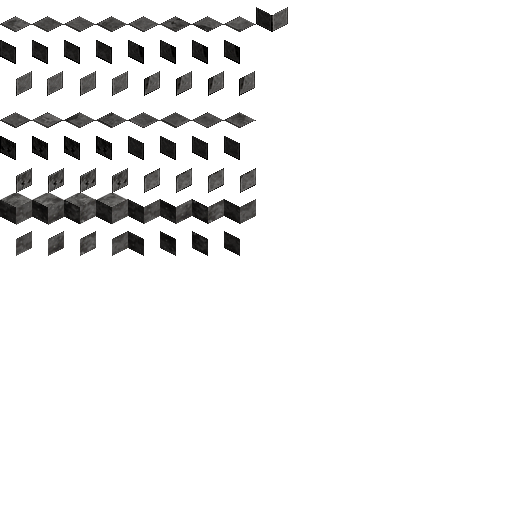
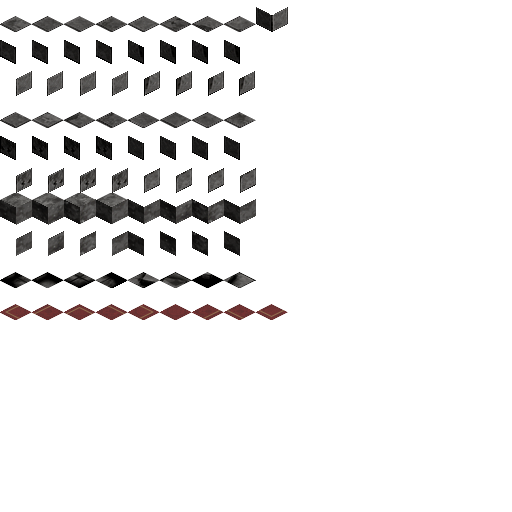
맵 데이터 변경 업데이트

Changed region(s): [[0.0, 0.5938, 0.5625, 0.625], [0.0, 0.5312, 0.5, 0.5625]]

diff --git a/js/isoengine/engine.js b/js/isoengine/engine.js
@@ -60,10 +60,12 @@ const TILE_WIDTH  = 32;
 const TILE_HEIGHT = 16;
 
 class Tile extends PIXI.Container {
-    constructor(x, y) {
+    constructor(x, y, options) {
         super();
         this.gridX = x;
         this.gridY = y;
+        this.setTexture(PIXI.Texture.fromFrame(options.textureName));
+        this.movable = options.movable || false;
     }
 
     setTexture(texture) {
@@ -201,16 +203,18 @@ class IsoMap extends PIXI.Container {
         }
     }
 
-    addTile(id, textureName) {
-        this.tiles[id] =  textureName;
+    addTile(id, textureName, options) {
+        options = options || {};
+        options.textureName = textureName;
+        this.tiles[id] = options;
+            
     }
 
     setGroundTile(x, y, tileId) {
         if (tileId > 0) {
-            const gtile = new Tile(x, y);
+            const gtile = new Tile(x, y, this.getTileData(tileId));
             gtile.position.x = this.getTilePosXFor(x, y) - this.TILE_HALF_W;
             gtile.position.y = this.getTilePosYFor(x ,y) + this.TILE_HALF_H;
-            gtile.setTexture(this.getTileTexture(tileId));
 
             this.groundMap[x + y * this.mapWidth] = gtile;
         }
@@ -218,10 +222,9 @@ class IsoMap extends PIXI.Container {
 
     setObjectTile(x, y, tileId) {
         if (tileId > 0) {
-            const otile = new Tile(x, y);
+            const otile = new Tile(x, y, this.getTileData(tileId));
             otile.position.x = this.getTilePosXFor(x, y) - this.TILE_HALF_W;
             otile.position.y = this.getTilePosYFor(x ,y) + this.TILE_HALF_H;
-            otile.setTexture(this.getTileTexture(tileId));
             this.objectMap[x + y * this.mapWidth] = otile;
         }
     }
@@ -242,13 +245,8 @@ class IsoMap extends PIXI.Container {
         return this.objectMap[x + y*this.mapWidth];
     }
 
-    getTileTexture(tileid) {
-        const src = this.tiles[tileid];
-        if (src) {
-            return PIXI.Texture.fromFrame(src);
-        } else {
-            return null;
-        }
+    getTileData(tileid) {
+        return this.tiles[tileid];
     }
 
     build() {
@@ -333,6 +331,7 @@ class IsoMap extends PIXI.Container {
     }
 
     moveCharacter(character, x, y) {
+        
         // 길을 찾는다
         if (character.isMoving) {
             // 다음 위치에서부터 시작을 한다
@@ -340,12 +339,21 @@ class IsoMap extends PIXI.Container {
             const startY = character.currentTargetTile ? character.currentTargetTile.y : character.gridY;
 
             const path  = this.pathFinder.solve(startX, startY, x, y);
-            character.newPath = path;
+            if (path) {
+                character.newPath = path;
+            }
         } else {
             const path  = this.pathFinder.solve(character.gridX, character.gridY, x, y);
             if (path) {
                 this.moveObjThrough(character, path);
             }
+        }
+    }
+
+    checkInteractionTarget(x, y) {
+        const target = this.getObjectAt(x, y);
+        if (target.isInteractive) {
+            this.interactTarget = target;
         }
     }
 
@@ -399,18 +407,19 @@ class IsoMap extends PIXI.Container {
         this.moveEngine.removeMovable(obj);
         
         if (!pathEnded) {
-            //console.log(JSON.stringify(obj.currentPath))
-            //obj.currentPath.splice(obj.currentPath.length-1, 1);
-            //console.log(JSON.stringify(obj.currentPath))
             this.moveObjThrough(obj, obj.currentPath.slice(0, obj.currentPath.length-1));
         }
         else {
             // reached to the end of the path
             obj.isMoving = false;
             obj.changeVisualToDirection(obj.currentDirection);
-        }
 
-        const isControlCharacter = true;
+            // 인터랙션 타겟이 있었나?
+            if (this.interactTarget) {
+                // 캐릭터가 해당 물체를 클릭하였다
+                this.interactTarget.touch();
+            }
+        }
     }
 
     highlightPath(currentPath, newPath) {

diff --git a/js/game.js b/js/game.js
@@ -123,7 +123,6 @@ class Game {
             ["objects.png", "assets/mapdata/objects.png"],
             ["walls.json", "assets/mapdata/walls.json"],
             ["walls.png", "assets/mapdata/walls.png"],
-            ["map.json", "assets/mapdata/map.json"],
             ["window_light.png", "assets/window_light.png"],
             ["torch_light.png", "assets/torch_light.png"],
             ["background.png", "assets/background.png"]
@@ -159,6 +158,22 @@ class Game {
                 const prefix = tileset.source.replace('.json', '_');
                 const idStart = tileset.firstgid;
 
+                // ======================================================
+                // 타일안에 디테일 데이터가 있으면 별도로 처리한다
+                const customTileData = {};
+                if (tiles.tiles) {
+                    for (const data of tiles.tiles) {
+                        const custom = {};
+                        for( const property of data.properties) {
+                            if (property.name === "movable") {
+                                custom.movable = property.value;
+                            }
+                        }
+                        customTileData[data.id + idStart] = custom;
+                    }
+                }
+                // ======================================================
+
                 for (let i = 0; i < tiles.tilecount; ++i) {
 
                     const textureName = prefix + i + ".png";
@@ -176,7 +191,8 @@ class Game {
                         const texture = PIXI.Texture.fromCanvas(c, new PIXI.Rectangle (1, 1, tiles.tilewidth, tiles.tileheight));
                         PIXI.Texture.addToCache(texture, textureName);
                     }
-                    stage.addTile(i+idStart, textureName); // 나중에 타일매니져로 교체한다
+                    // TODO : 나중에 타일매니져로 교체한다
+                    stage.addTile(i+idStart, textureName, customTileData[i + idStart]); 
                 }
             }
 
